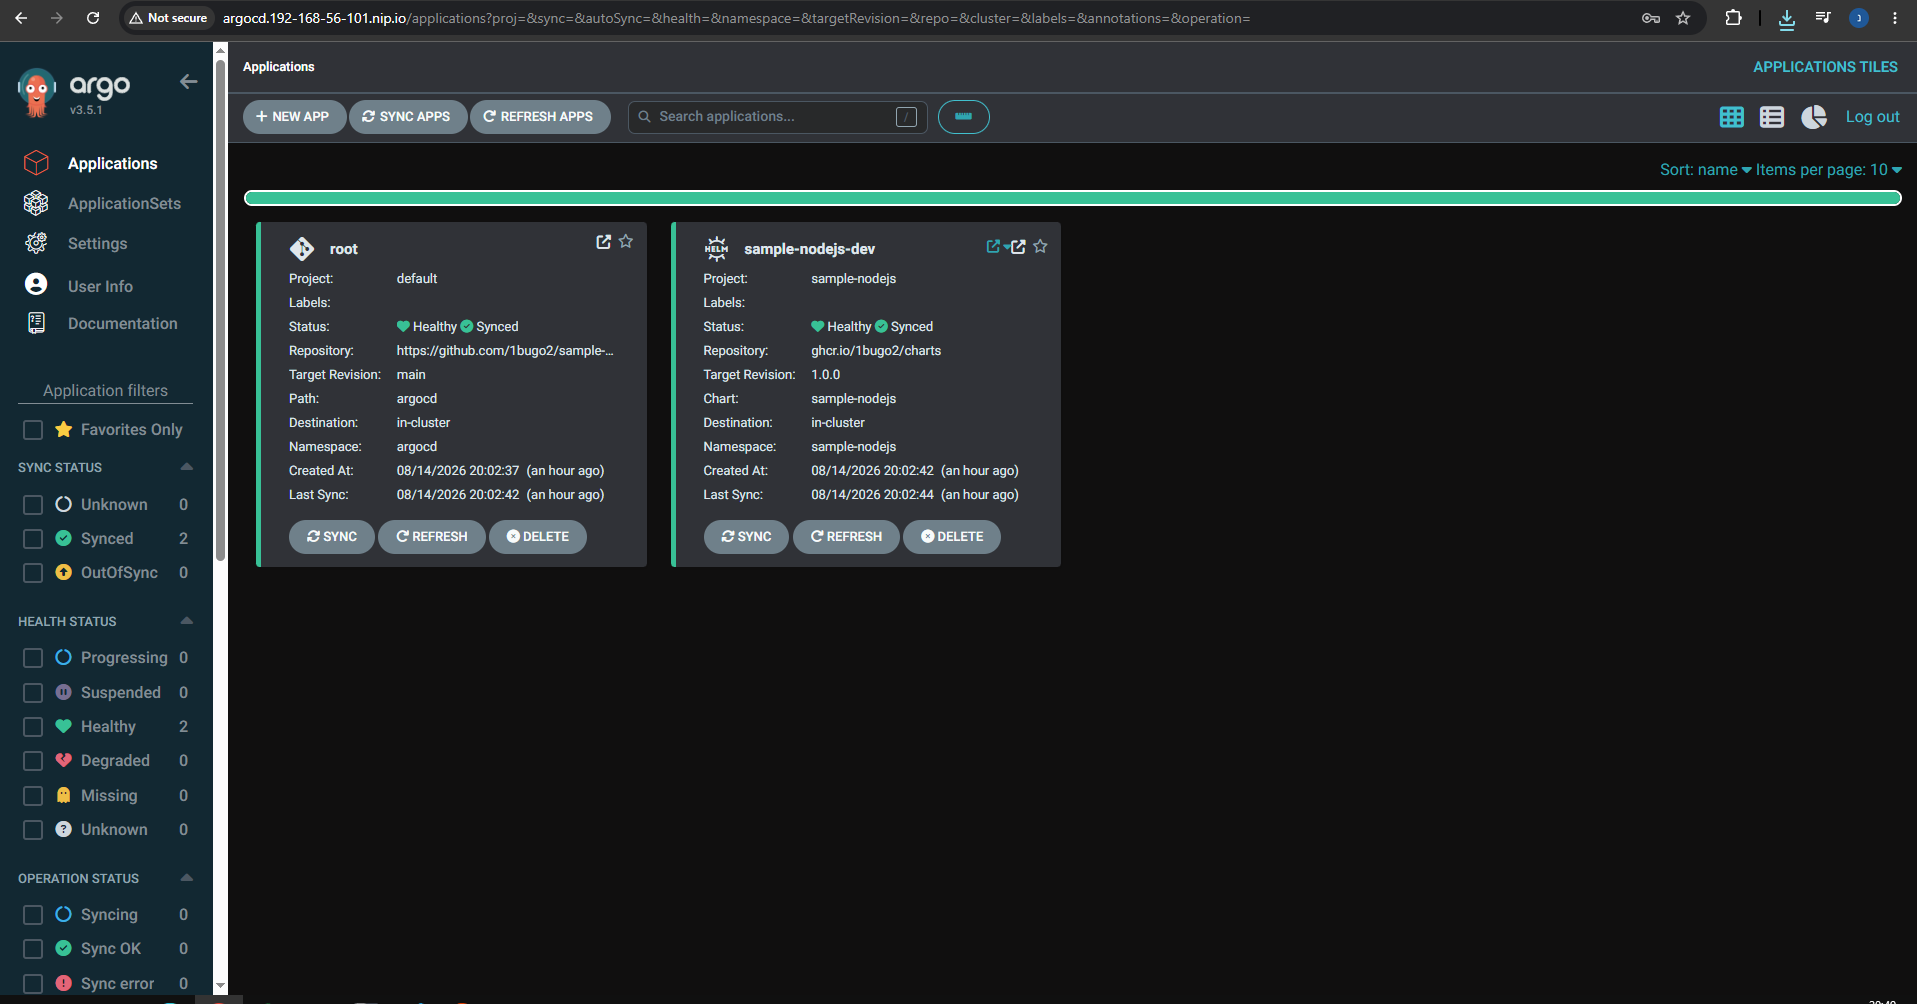
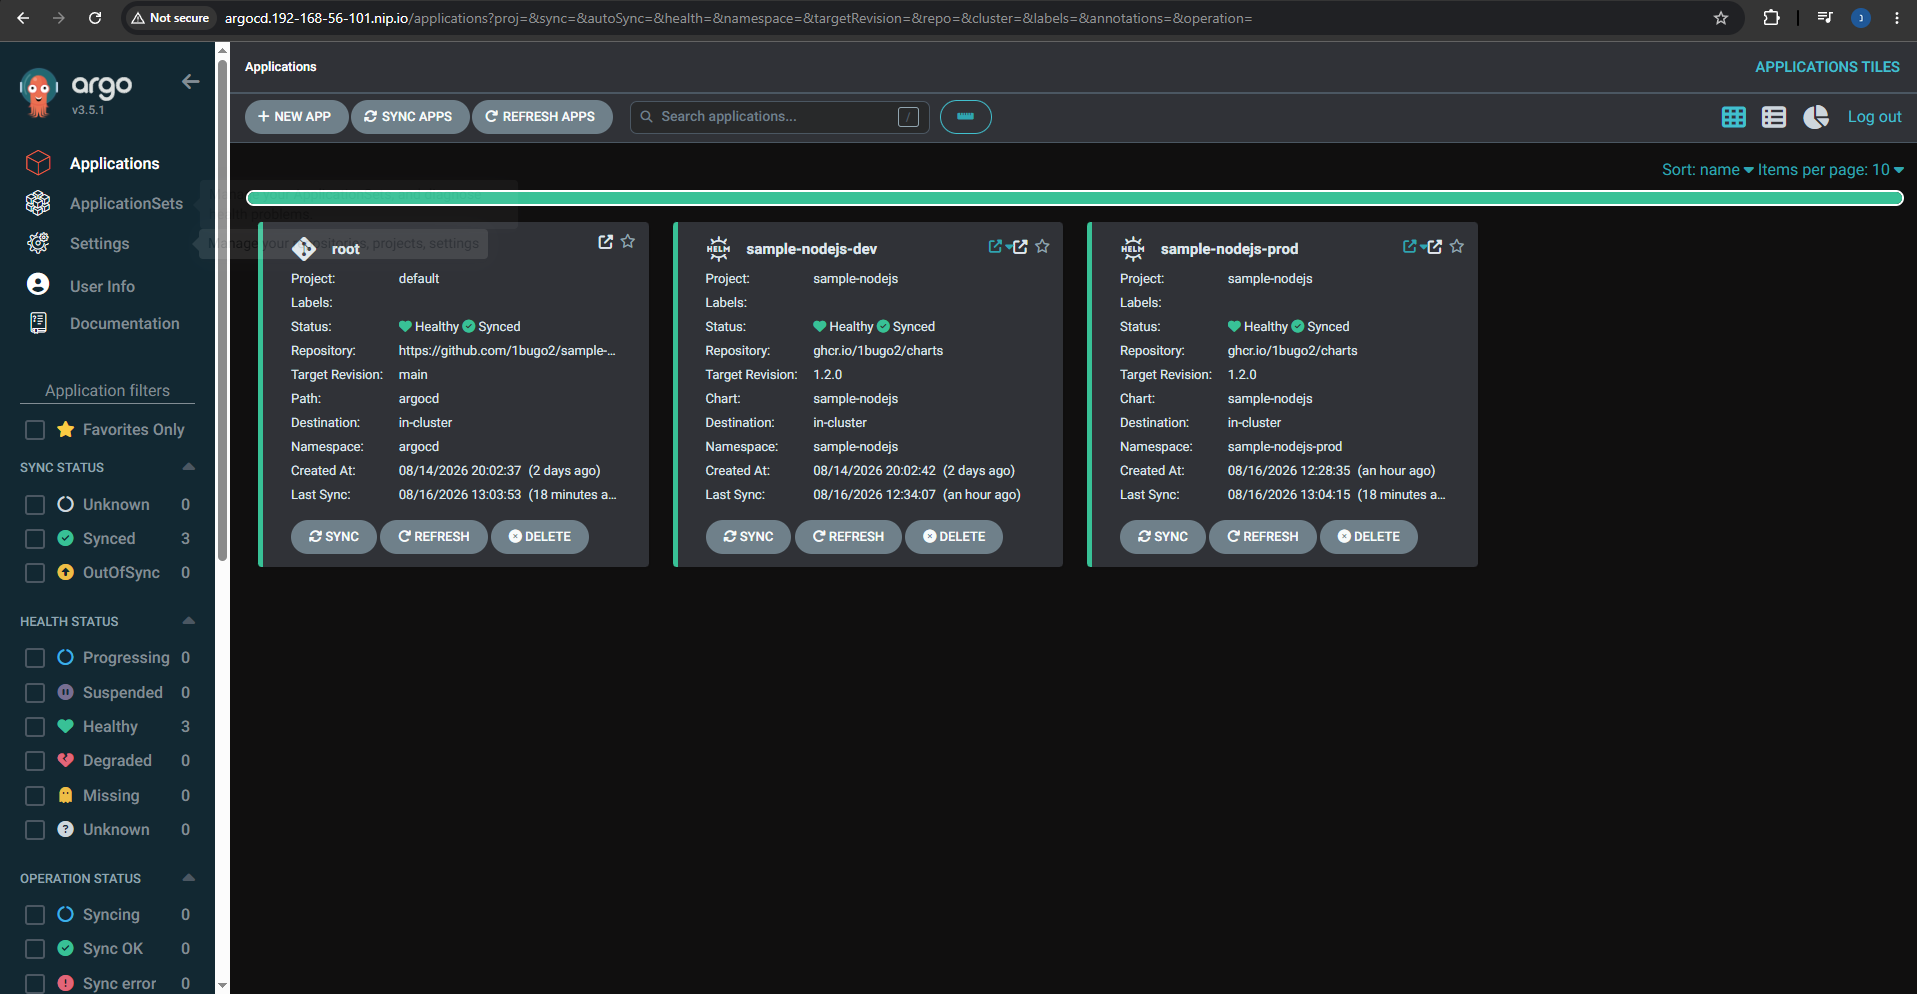
docs: refresh ArgoCD screenshots for the two-environment setup

diff --git a/docs/evidence/README.md b/docs/evidence/README.md
@@ -12,13 +12,13 @@ a picture.
 | [01-ingress-my-app.png](screenshots/01-ingress-my-app.png) | `Hello, World!` served through the Ingress at `my-app.192-168-56-101.nip.io/my-app` |
 | [02-ingress-about.png](screenshots/02-ingress-about.png) | `/about` — the second routed path |
 | [03-ingress-classified-404.png](screenshots/03-ingress-classified-404.png) | **`/classified` returns 404 at the edge.** The app still serves it internally; the Ingress allow-list means the request never reaches a pod |
-| [04-argocd-applications-synced.png](screenshots/04-argocd-applications-synced.png) | ArgoCD: `root` and `sample-nodejs-dev` both **Healthy / Synced**. Note the child app's source is `ghcr.io/1bugo2/charts` at a pinned chart version |
-| [05-argocd-resource-tree.png](screenshots/05-argocd-resource-tree.png) | All 8 chart objects reconciled — `cm`, `svc`, `sa`, `deploy`, `hpa`, `ing`, `netpol`, `pdb` — plus the ReplicaSet and 2 running pods |
+| [04-argocd-applications-synced.png](screenshots/04-argocd-applications-synced.png) | ArgoCD with **all three Applications Healthy/Synced** — `root`, `sample-nodejs-dev` and `sample-nodejs-prod`. Both environments track chart `1.2.0` from `ghcr.io/1bugo2/charts` and deploy to separate namespaces |
+| [05-argocd-resource-tree.png](screenshots/05-argocd-resource-tree.png) | The dev resource tree, **11 objects Synced**: `cm`, the dashboard `cm`, `svc`, `sa`, `deploy`, `hpa`, `prometheusrule`, `servicemonitor`, `ing`, `netpol`, `pdb` — plus ReplicaSets and 2 running pods. The `PR`/`SM`/dashboard nodes are the monitoring templates the GitOps values enable |
 | [06-argocd-application-manifest.png](screenshots/06-argocd-application-manifest.png) | The `Application` manifest: multi-source (OCI chart + `$values` from the GitOps repo), `prune`/`selfHeal`, and `/spec/replicas` ignored so ArgoCD does not fight the HPA |
 | [07-release-pipeline-steps.png](screenshots/07-release-pipeline-steps.png) | **The release pipeline's step order.** `Smoke test` → `Block release on high or critical vulnerabilities` → `Push image`. The gate precedes the push, so a vulnerable image is never published |
 | [08-ghcr-image-private.png](screenshots/08-ghcr-image-private.png) | The image package marked **Private**, with `v1.0.0` and the cosign `.sig` and SBOM `.att` artifacts alongside it |
 | [09-github-release-v1.0.0.png](screenshots/09-github-release-v1.0.0.png) | Release `v1.0.0` cut by the pipeline, changelog generated from Conventional Commit subjects, `sbom.spdx.json` attached |
-| [10-argocd-hpa-scaled-to-6.png](screenshots/10-argocd-hpa-scaled-to-6.png) | **The HPA scaled to 6 replicas under load**, captured in ArgoCD. Five pods are 4 minutes old against one at an hour, and the Application stayed `Healthy`/`Sync OK` throughout — which is the `ignoreDifferences: /spec/replicas` setting working, otherwise `selfHeal` would have reverted the autoscaler on the next sync |
+| [10-argocd-hpa-scaled-to-6.png](screenshots/10-argocd-hpa-scaled-to-6.png) | **The HPA scaled to 6 replicas under load.** Captured 2026-08-14 during the load test, when the chart was at `1.0.0` — hence the older version and smaller object count than shot 05. Five pods are 4 minutes old against one at an hour, and the Application stayed `Healthy`/`Sync OK` throughout, which is `ignoreDifferences: /spec/replicas` preventing `selfHeal` from reverting the autoscaler |
 | [11-grafana-alert-rules.png](screenshots/11-grafana-alert-rules.png) | The six `SampleNodejs*` alert rules loaded and all **Normal**. They appear under Grafana's *Prometheus* rule source rather than *Grafana-managed*, because they ship as a `PrometheusRule` object in the Helm chart — versioned in Git rather than clicked into the UI |
 
 ## Captured output
